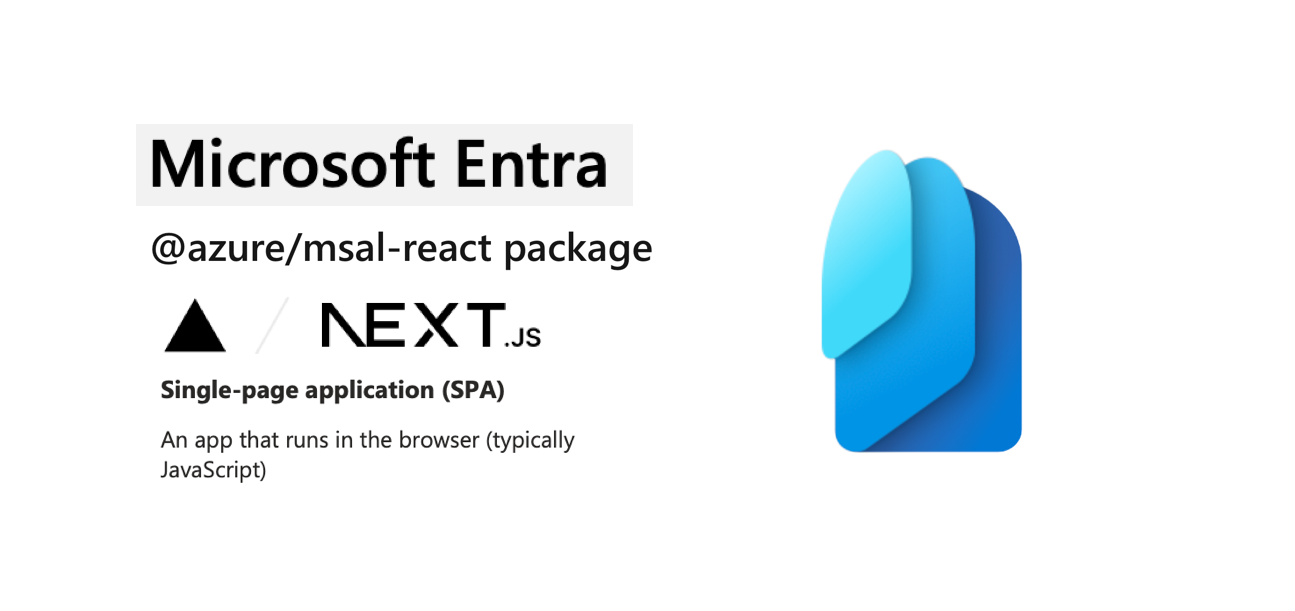
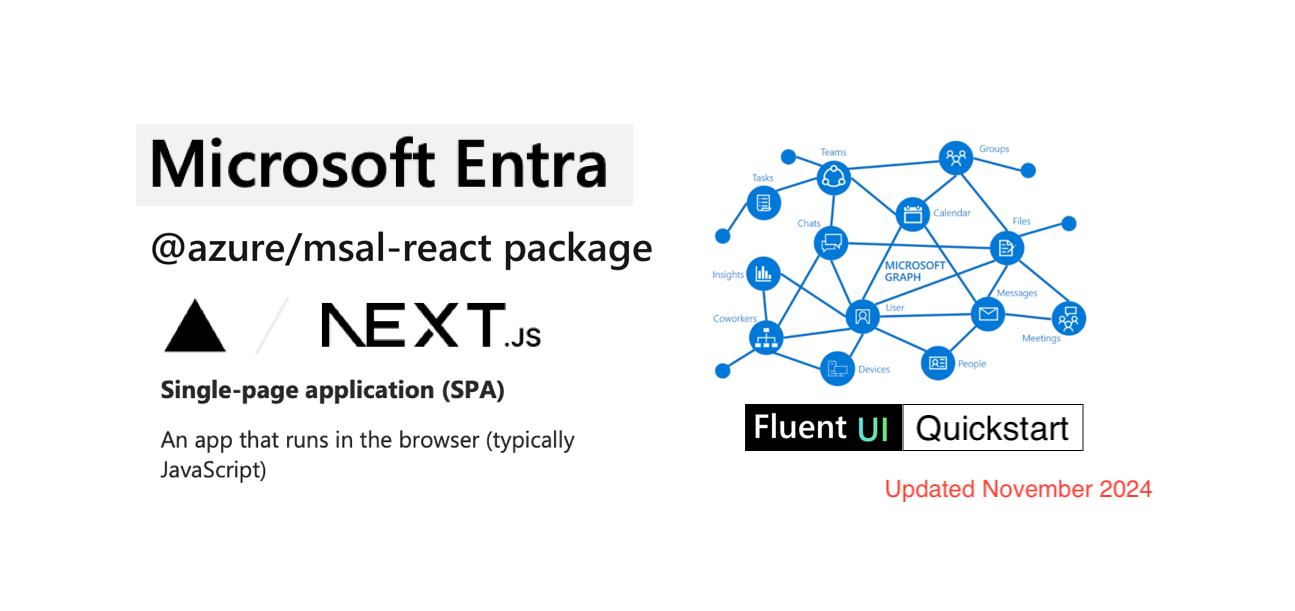
update

Changed region(s): [[0.556, 0.2177, 0.8649, 0.7463], [0.6795, 0.7774, 0.8958, 0.8396]]

diff --git a/README.md b/README.md
@@ -20,7 +20,7 @@ This example is designed to showcase the basics of modern authentication within 
 
 - [Next.js by Vercel](https://nextjs.org/docs) framework documentation.
 - [Microsoft Authentication Library (MSAL) for JS](https://github.com/AzureAD/microsoft-authentication-library-for-js)
-- [Fluenet UI](https://developer.microsoft.com/en-us/fluentui#/) The official front-end framework for building experiences that fit seamlessly into Microsoft 365.
+- [Fluent UI](https://developer.microsoft.com/en-us/fluentui#/) The official front-end framework for building experiences that fit seamlessly into Microsoft 365.
 - [Dev Fluent UI](https://react.fluentui.dev/?path=/docs/concepts-introduction--docs) the developer resource.
 - [SWR by Vercel](https://swr.vercel.app) React Hooks for Data Fetching
 > :information_source: "SWR is a strategy to first return the data from cache (stale), then send the fetch request (revalidate), and finally come with the up-to-date data."
